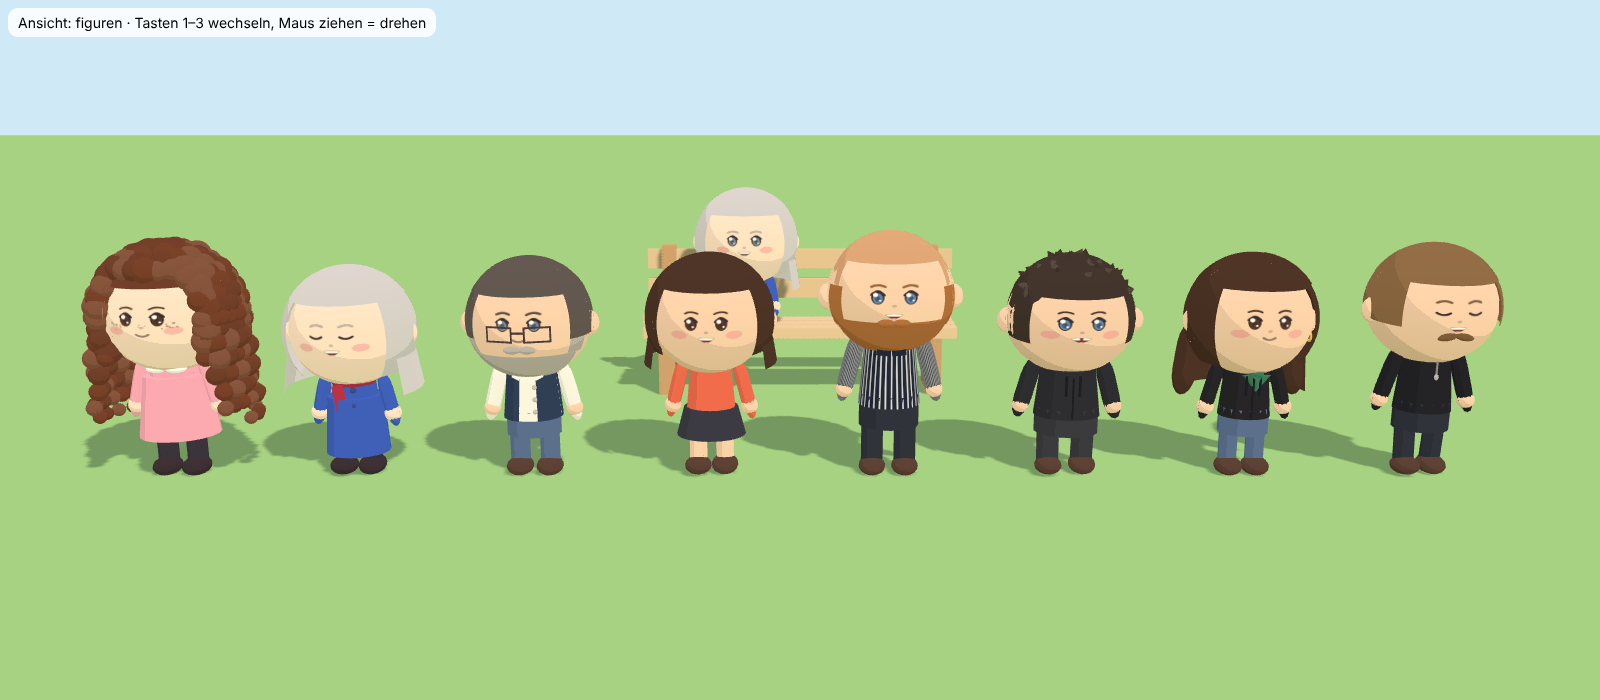
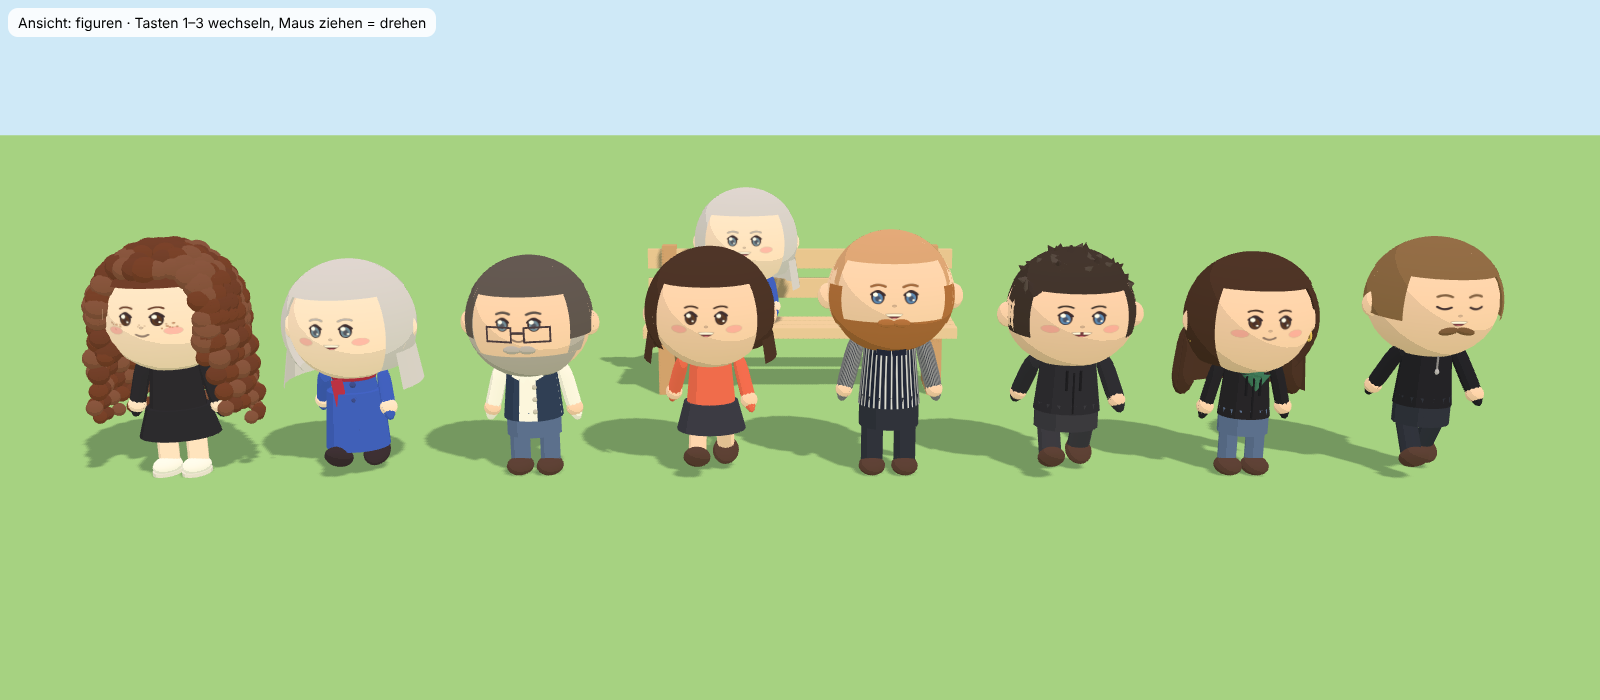
Lina trägt Schwarz, Schuhe je nach Jahreszeit
- Neues Aussehens-Feld „shoes“: Halbschuhe, Schnürstiefel, weiße Sneaker
  oder „je nach Jahreszeit“ (Herbst/Winter Stiefel, Frühling/Sommer Sneaker)
- Schnürstiefel mit klobiger Sohle und gelber Naht, dazu blickdichte
  Strumpfhose; weiße Sneaker mit heller Sohle
- Linas Standard-Outfit: schwarzer Pulli & Rock, Schuhe je nach Jahreszeit
- Schwarz in der Farbpalette, Schuhwahl im Charakter-Editor
- Figuren bekommen die Jahreszeit des Dorfes; Galerie: ?jahreszeit=winter

Claude-Session: https://claude.ai/code/session_01ThTYhPHTkGtFy4ue8CC8z3

diff --git a/src/core/appearance.ts b/src/core/appearance.ts
@@ -6,12 +6,15 @@
  * Animationen und später die NPCs mit demselben Code.
  */
 import { palette } from '../style/palette';
+import type { Season } from './time';
 
 export type HairStyle = 'locken' | 'schulterlang' | 'bob' | 'zopf' | 'dutt' | 'kurz' | 'wuschel' | 'zerzaust' | 'kurzgeschoren' | 'glatt';
 export type Outfit = 'kleid' | 'pulli' | 'latzhose' | 'hemd' | 'strickjacke' | 'mantel' | 'weste' | 'streifenhemd' | 'hoodie' | 'troyer';
 export type Beard = 'keiner' | 'kurz' | 'voll' | 'schnurrbart';
 export type Smile = 'laecheln' | 'grinsen' | 'zahnluecke';
 export type GlassesShape = 'rund' | 'eckig';
+/** „saison“ = Schnürstiefel im Herbst/Winter, weiße Sneaker im Frühling/Sommer */
+export type Shoes = 'standard' | 'stiefel' | 'sneaker' | 'saison';
 
 export interface Appearance {
   hairStyle: HairStyle;
@@ -37,6 +40,7 @@ export interface Appearance {
   scarf: string;
   /** kleine Creolen */
   earrings: boolean;
+  shoes: Shoes;
 }
 
 export interface Option<T> {
@@ -99,6 +103,19 @@ export const HAIR_COLORS: Option<string>[] = [
   { id: palette.hair.mint, label: 'Minze' },
 ];
 
+export const SHOES: Option<Shoes>[] = [
+  { id: 'saison', label: 'Je nach Jahreszeit' },
+  { id: 'stiefel', label: 'Schnürstiefel' },
+  { id: 'sneaker', label: 'Weiße Sneaker' },
+  { id: 'standard', label: 'Halbschuhe' },
+];
+
+/** Welche Schuhe eine Figur in der Jahreszeit tatsächlich trägt. */
+export function shoesFor(a: Appearance, season: Season): Exclude<Shoes, 'saison'> {
+  if (a.shoes !== 'saison') return a.shoes;
+  return season === 'herbst' || season === 'winter' ? 'stiefel' : 'sneaker';
+}
+
 export const SKIN_TONES: Option<string>[] = palette.skin.map((c, i) => ({
   id: c,
   label: `Hautton ${i + 1}`,
@@ -106,14 +123,17 @@ export const SKIN_TONES: Option<string>[] = palette.skin.map((c, i) => ({
 
 export const OUTFIT_COLORS: Option<string>[] = palette.outfit.map((c) => ({ id: c, label: c }));
 
-/** Lina: kastanienbraune Locken, braune Augen, Sommersprossen – im Editor anpassbar. */
+/**
+ * Lina: kastanienbraune Locken, braune Augen, Sommersprossen, trägt am liebsten Schwarz –
+ * im Winter mit Schnürstiefeln, im Sommer mit weißen Sneakern. Im Editor anpassbar.
+ */
 export const DEFAULT_LINA: Appearance = {
   hairStyle: 'locken',
   hairColor: palette.hair.kastanie,
   skinTone: palette.skin[0],
-  outfit: 'kleid',
-  outfitColor: palette.outfit[0],
-  accentColor: palette.outfit[7],
+  outfit: 'pulli',
+  outfitColor: palette.outfit[10],
+  accentColor: palette.outfit[10],
   height: 1,
   build: 1,
   beard: 'keiner',
@@ -126,6 +146,7 @@ export const DEFAULT_LINA: Appearance = {
   smile: 'laecheln',
   scarf: '',
   earrings: false,
+  shoes: 'saison',
 };
 
 const HEX = /^#[0-9a-fA-F]{6}$/;
@@ -172,6 +193,7 @@ export function normalizeAppearance(raw: unknown, fallback: Appearance = DEFAULT
     smile: pick(r.smile, SMILES, fallback.smile),
     scarf: r.scarf === '' ? '' : color(r.scarf, fallback.scarf),
     earrings: typeof r.earrings === 'boolean' ? r.earrings : fallback.earrings,
+    shoes: pick(r.shoes, SHOES, fallback.shoes),
   };
 }
 
@@ -195,5 +217,6 @@ export function appearanceKey(a: Appearance): string {
     a.smile,
     a.scarf,
     a.earrings ? 1 : 0,
+    a.shoes,
   ].join('|');
 }

diff --git a/src/world3d/models/chibi3d.ts b/src/world3d/models/chibi3d.ts
@@ -7,7 +7,8 @@
  * Ursprung = zwischen den Füßen, Blickrichtung = +Z.
  */
 import * as THREE from 'three';
-import type { Appearance } from '../../core/appearance';
+import { shoesFor, type Appearance } from '../../core/appearance';
+import type { Season } from '../../core/time';
 import { mulberry32 } from '../../core/rng';
 import { darken, lighten, mixHex } from '../../style/palette';
 import { mesh, toon } from '../materials';
@@ -390,7 +391,11 @@ export class Chibi3D {
   private arms: THREE.Group[] = [];
   private hipY = 0;
 
-  constructor(appearance: Appearance) {
+  /** Jahreszeit bestimmt bei `shoes: 'saison'` die Schuhe. */
+  constructor(
+    appearance: Appearance,
+    private readonly season: Season = 'sommer',
+  ) {
     this.root.add(this.body);
     this.build(appearance);
   }
@@ -461,14 +466,32 @@ export class Chibi3D {
         pants = a.accentColor;
         break;
     }
-    const legColor = skirtColor && o !== 'mantel' ? (o === 'kleid' ? '#3a3440' : skin) : pants;
+    const shoes = shoesFor(a, this.season);
+    let legColor = skirtColor && o !== 'mantel' ? (o === 'kleid' ? '#3a3440' : skin) : pants;
+    // zu Stiefeln im Winter: blickdichte Strumpfhose statt nackter Beine
+    if (shoes === 'stiefel' && legColor === skin) legColor = '#2a2730';
 
     // Beine (Drehpunkt an der Hüfte)
     for (const side of [-1, 1]) {
       const leg = new THREE.Group();
       leg.position.set(side * 0.066 * bw, this.hipY, 0);
       leg.add(part(cylinder, legColor, 0.044 * Math.min(1.15, bw), legLen, 0.044, 0, -legLen / 2, 0));
-      leg.add(part(sphere, o === 'mantel' || o === 'kleid' ? '#3b2f36' : '#5a4038', 0.06, 0.042, 0.078, 0, -legLen - 0.005, 0.02));
+      const footY = -legLen - 0.005;
+      if (shoes === 'stiefel') {
+        // Schnürstiefel: schwarzer Schaft, klobige Sohle mit gelber Naht
+        const leather = '#1f1d22';
+        leg.add(part(cylinder, leather, 0.05, legLen * 0.5, 0.05, 0, -legLen * 0.75, 0));
+        leg.add(part(sphere, leather, 0.064, 0.046, 0.084, 0, footY + 0.004, 0.022));
+        leg.add(part(cylinder, '#e3c04f', 0.067, 0.006, 0.088, 0, footY - 0.02, 0.022));
+        leg.add(part(cylinder, '#3a3439', 0.066, 0.02, 0.087, 0, footY - 0.032, 0.022));
+        for (let i = 0; i < 3; i++) leg.add(part(box, '#4a454c', 0.03, 0.005, 0.006, 0, -legLen * (0.62 + i * 0.12), 0.05));
+      } else if (shoes === 'sneaker') {
+        // weiße Sneaker mit heller Sohle
+        leg.add(part(sphere, '#f7f5f1', 0.058, 0.04, 0.08, 0, footY, 0.022));
+        leg.add(part(cylinder, '#e4e0da', 0.06, 0.016, 0.083, 0, footY - 0.026, 0.022));
+      } else {
+        leg.add(part(sphere, o === 'mantel' || o === 'kleid' ? '#3b2f36' : '#5a4038', 0.06, 0.042, 0.078, 0, footY, 0.02));
+      }
       this.body.add(leg);
       this.legs.push(leg);
     }

diff --git a/src/ui/CharacterEditor.tsx b/src/ui/CharacterEditor.tsx
@@ -11,8 +11,10 @@ import {
   HAIR_STYLES,
   OUTFIT_COLORS,
   OUTFITS,
+  SHOES,
   SKIN_TONES,
 } from '../core/appearance';
+import type { Season } from '../core/time';
 import { DEFAULT_VILLAGE_NAME } from '../core/save';
 import { Preview3D } from './Preview3D';
 
@@ -33,11 +35,12 @@ interface Props {
   mode: 'new' | 'edit';
   initial: Appearance;
   initialVillage?: string;
+  season: Season;
   onDone: (appearance: Appearance, villageName: string) => void;
   onCancel: () => void;
 }
 
-export function CharacterEditor({ mode, initial, initialVillage, onDone, onCancel }: Props) {
+export function CharacterEditor({ mode, initial, initialVillage, season, onDone, onCancel }: Props) {
   const [a, setA] = useState<Appearance>(initial);
   const [village, setVillage] = useState(initialVillage ?? DEFAULT_VILLAGE_NAME);
   const [angle, setAngle] = useState(0);
@@ -51,7 +54,7 @@ export function CharacterEditor({ mode, initial, initialVillage, onDone, onCance
         <div class="editor-body">
           <div class="editor-preview">
             <div class="preview-stage">
-              <Preview3D appearance={a} angle={angle} />
+              <Preview3D appearance={a} angle={angle} season={season} />
             </div>
             <button class="btn small" onClick={() => setAngle((v) => v + Math.PI / 2)}>
               ⟲ Drehen
@@ -90,6 +93,13 @@ export function CharacterEditor({ mode, initial, initialVillage, onDone, onCance
             <OptionRow label="Kleidung">
               {OUTFITS.map((o) => (
                 <Chip key={o.id} active={a.outfit === o.id} onClick={() => set('outfit', o.id)}>
+                  {o.label}
+                </Chip>
+              ))}
+            </OptionRow>
+            <OptionRow label="Schuhe">
+              {SHOES.map((o) => (
+                <Chip key={o.id} active={a.shoes === o.id} onClick={() => set('shoes', o.id)}>
                   {o.label}
                 </Chip>
               ))}

diff --git a/src/core/appearance.test.ts b/src/core/appearance.test.ts
@@ -1,6 +1,6 @@
 import { describe, expect, it } from 'vitest';
 import { LOOKS } from '../data/npcs/looks';
-import { DEFAULT_LINA, normalizeAppearance } from './appearance';
+import { DEFAULT_LINA, normalizeAppearance, shoesFor } from './appearance';
 
 describe('Aussehen', () => {
   it('ergänzt neue Felder für alte Spielstände', () => {
@@ -31,5 +31,16 @@ describe('Aussehen', () => {
 
   it('alle Bewohner-Looks sind gültig', () => {
     for (const [id, look] of Object.entries(LOOKS)) expect(normalizeAppearance(look, look), id).toEqual(look);
+  });
+
+  it('Lina trägt Schwarz – Stiefel im Winter, weiße Sneaker im Sommer', () => {
+    expect(DEFAULT_LINA.outfitColor).toBe(DEFAULT_LINA.accentColor);
+    expect(shoesFor(DEFAULT_LINA, 'winter')).toBe('stiefel');
+    expect(shoesFor(DEFAULT_LINA, 'herbst')).toBe('stiefel');
+    expect(shoesFor(DEFAULT_LINA, 'sommer')).toBe('sneaker');
+    expect(shoesFor(DEFAULT_LINA, 'fruehling')).toBe('sneaker');
+    expect(shoesFor({ ...DEFAULT_LINA, shoes: 'stiefel' }, 'sommer')).toBe('stiefel');
+    expect(normalizeAppearance({}).shoes).toBe('saison');
+    expect(normalizeAppearance({ shoes: 'flipflops' }).shoes).toBe('saison');
   });
 });

diff --git a/src/ui/Preview3D.tsx b/src/ui/Preview3D.tsx
@@ -4,15 +4,18 @@
 import { useEffect, useRef } from 'preact/hooks';
 import * as THREE from 'three';
 import type { Appearance } from '../core/appearance';
+import type { Season } from '../core/time';
 import { Chibi3D } from '../world3d/models/chibi3d';
 
 interface Props {
   appearance: Appearance;
   /** Drehwinkel in Radiant */
   angle: number;
+  /** Jahreszeit im Dorf (für Schuhe „je nach Jahreszeit“) */
+  season?: Season;
 }
 
-export function Preview3D({ appearance, angle }: Props) {
+export function Preview3D({ appearance, angle, season = 'sommer' }: Props) {
   const canvasRef = useRef<HTMLCanvasElement | null>(null);
   const state = useRef<{ chibi: Chibi3D; renderer: THREE.WebGLRenderer; angle: number } | null>(null);
 
@@ -31,7 +34,7 @@ export function Preview3D({ appearance, angle }: Props) {
     const camera = new THREE.PerspectiveCamera(26, canvas.clientWidth / canvas.clientHeight, 0.1, 20);
     camera.position.set(0, 0.95, 3.1);
     camera.lookAt(0, 0.5, 0);
-    const chibi = new Chibi3D(appearance);
+    const chibi = new Chibi3D(appearance, season);
     scene.add(chibi.root);
     state.current = { chibi, renderer, angle };
     let t = 0;

diff --git a/src/world3d/Character3D.ts b/src/world3d/Character3D.ts
@@ -7,6 +7,7 @@ import * as THREE from 'three';
 import { RUN_SPEED, TILE, UNIT, WALK_SPEED } from '../config';
 import type { Appearance } from '../core/appearance';
 import type { Tile } from '../core/grid';
+import type { Season } from '../core/time';
 import { facingFromVector, type FootBox, moveWithCollision, type SolidFn } from '../core/movement';
 import type { Facing } from '../core/save';
 import { Chibi3D } from './models/chibi3d';
@@ -55,8 +56,9 @@ export class Character {
     y: number,
     facing: Facing,
     private readonly heightAt: (x: number, z: number) => number,
+    season: Season = 'sommer',
   ) {
-    this.chibi = new Chibi3D(appearance);
+    this.chibi = new Chibi3D(appearance, season);
     parent.add(this.chibi.root);
     this.x = x;
     this.y = y;

diff --git a/src/dev/gallery3d.ts b/src/dev/gallery3d.ts
@@ -3,6 +3,7 @@
  * Aufruf: http://localhost:5173/gallery.html  (?ansicht=figuren|natur|gebaeude, ?winkel=0..360)
  */
 import * as THREE from 'three';
+import type { Season } from '../core/time';
 import { DEFAULT_LINA, type Appearance } from '../core/appearance';
 import { GISELA } from '../data/npcs/gisela';
 import { LOOKS } from '../data/npcs/looks';
@@ -56,7 +57,7 @@ function build() {
   (document.getElementById('label') as HTMLElement).textContent = view;
   if (view === 'figuren') {
     people.forEach(([, a], i) => {
-      const c = new Chibi3D(a);
+      const c = new Chibi3D(a, (params.get('jahreszeit') as Season | null) ?? 'sommer');
       c.root.position.set((i - (people.length - 1) / 2) * 0.8, 0, 0);
       content.add(c.root);
       chibis.push(c);

diff --git a/src/ui/App.tsx b/src/ui/App.tsx
@@ -69,6 +69,7 @@ export function App({ session }: { session: Session }) {
           mode={state.editorMode}
           initial={state.editorMode === 'edit' && session.data ? session.data.player.appearance : DEFAULT_LINA}
           initialVillage={state.editorMode === 'edit' ? session.data?.villageName : undefined}
+          season={session.season}
           onCancel={() => ui.set({ screen: state.editorMode === 'edit' ? 'playing' : session.playing ? 'playing' : 'title' })}
           onDone={(appearance, village) => {
             if (state.editorMode === 'new') session.startNewGame(appearance, village);

diff --git a/src/world3d/Npc.ts b/src/world3d/Npc.ts
@@ -33,7 +33,7 @@ export class Npc {
   ) {
     const door = this.doorTile();
     const start = door ? tileCenterFeet(door) : { x: 0, y: 0 };
-    this.char = new Character(parent, def.appearance, start.x, start.y, 'down', heightAt);
+    this.char = new Character(parent, def.appearance, start.x, start.y, 'down', heightAt, session.season);
     this.char.speedFactor = NPC_SPEED;
     // Gleich an die richtige Stelle setzen (ohne Laufen)
     this.applyEntry(activityAt(def.schedule, session.clock()), true);

diff --git a/src/world3d/World3D.ts b/src/world3d/World3D.ts
@@ -328,7 +328,7 @@ export class World3D {
     if (!data) return;
     this.player?.destroy();
     const p = data.player;
-    this.player = new Character(this.scene, p.appearance, p.x, p.y, p.facing, this.view.terrain.heightAt);
+    this.player = new Character(this.scene, p.appearance, p.x, p.y, p.facing, this.view.terrain.heightAt, this.session.season);
     this.camTarget.set(p.x * UNIT, 0, p.y * UNIT);
 
     this.collectibles.refresh();

diff --git a/src/style/palette.ts b/src/style/palette.ts
@@ -77,6 +77,7 @@ export const palette = {
     '#ffffff', // Weiß
     '#8a9bc4', // Jeansblau
     '#7d6a73', // Mokka
+    '#2b2a31', // Schwarz
   ],
 
   // --- Licht & Effekte -------------------------------------------------------

diff --git a/src/data/npcs/looks.ts b/src/data/npcs/looks.ts
@@ -24,6 +24,7 @@ const base: Appearance = {
   smile: 'laecheln',
   scarf: '',
   earrings: false,
+  shoes: 'standard',
 };
 
 export const LOOKS: Readonly<Record<string, Appearance>> = {
